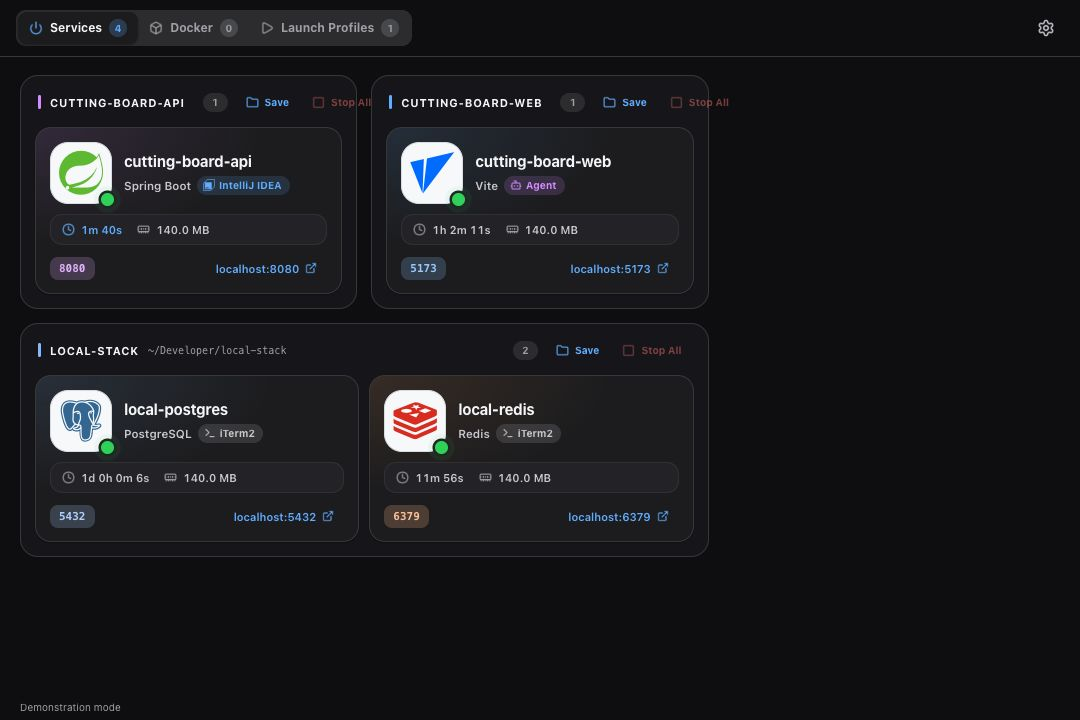
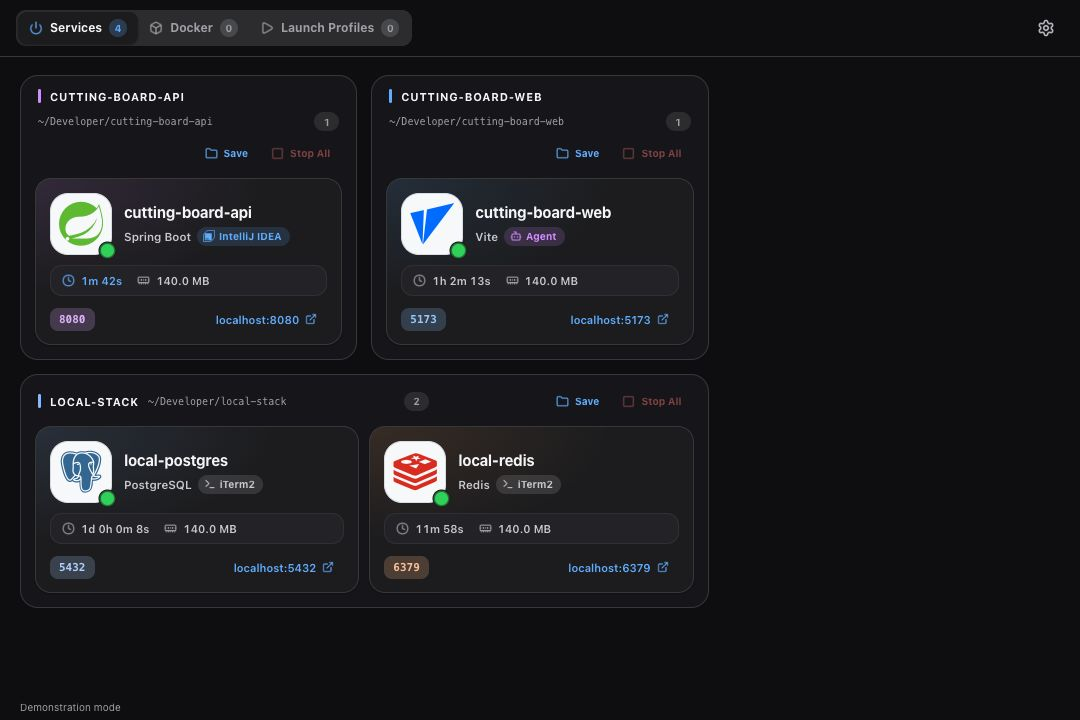
fix: keep service group actions within bounds

diff --git a/src/styles.css b/src/styles.css
@@ -211,7 +211,7 @@ button:focus-visible, input:focus-visible, select:focus-visible { outline: 2px s
   border-radius: 18px;
   background: var(--panel);
 }
-.section-header { display: flex; align-items: center; gap: 9px; min-width: 0; margin: 0 3px 12px; }
+.section-header { display: flex; align-items: center; flex-wrap: wrap; gap: 9px; min-width: 0; margin: 0 3px 12px; }
 .section-accent { flex: 0 0 3px; width: 3px; height: 14px; border-radius: 2px; background: var(--other); }
 .section-header h2 { margin: 0; color: var(--text); font-size: 11px; line-height: 1; font-weight: 700; letter-spacing: .07em; white-space: nowrap; }
 .section-header p {
@@ -225,7 +225,7 @@ button:focus-visible, input:focus-visible, select:focus-visible { outline: 2px s
   white-space: nowrap;
 }
 .section-count { flex: 0 0 auto; height: 19px; display: inline-flex; align-items: center; margin-left: auto; padding: 0 9px; border-radius: 999px; background: var(--surface-alt); color: var(--text-dim); font-size: 10px; font-weight: 700; font-variant-numeric: tabular-nums; }
-.section-actions { display: inline-flex; flex: 0 0 auto; align-items: center; gap: 5px; }
+.section-actions { display: inline-flex; flex: 0 0 auto; align-items: center; gap: 5px; margin-left: auto; }
 .section-action { min-height: 26px; padding: 3px 8px; border: 1px solid transparent; border-radius: 8px; background: transparent; font-size: 10px; font-weight: 700; cursor: pointer; }
 .section-action:hover, .section-action:focus-visible { background: var(--surface-hover); }
 .save-group-action { color: var(--accent); }
